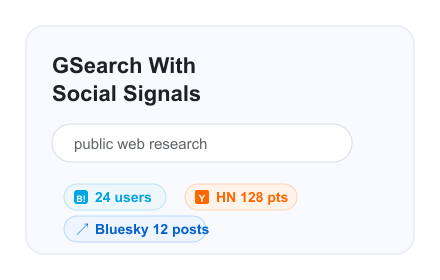
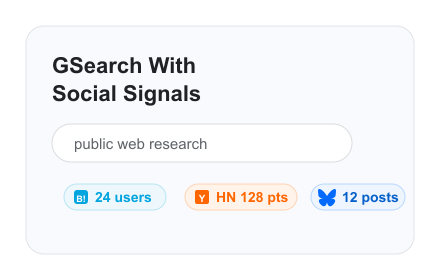
fix(content): compact the Bluesky badge
汎用リンクiconを透明背景の蝶iconへ置き換え、表示文言を件数とpostsだけに短縮する。Bluesky名はaria-labelとtooltipに維持する。

Changed region(s): [[0.1477, 0.7429, 0.4727, 0.8857], [0.7091, 0.6286, 0.9455, 0.7714]]

diff --git a/tests/manifest.test.ts b/tests/manifest.test.ts
@@ -68,4 +68,13 @@ describe("extension manifest", () => {
     expect(manifest.host_permissions).not.toContain("https://api.bsky.app/*")
     expect(manifest.web_accessible_resources?.[0]?.resources).toContain("icons/bluesky-signal.svg")
   })
+
+  it("bundles a transparent Bluesky butterfly SVG", () => {
+    const icon = readFileSync(resolve(process.cwd(), "public/icons/bluesky-signal.svg"), "utf8")
+
+    expect(icon).toContain('viewBox="0 0 24 24"')
+    expect(icon).toContain('fill="#006aff"')
+    expect(icon).not.toContain("<rect")
+    expect(icon).not.toContain("#fff")
+  })
 })

diff --git a/tests/content/badges.test.ts b/tests/content/badges.test.ts
@@ -171,7 +171,8 @@ describe("insertBlueskyBadge", () => {
       "chrome-extension://test-extension/icons/bluesky-signal.svg"
     )
     expect(badge?.querySelector("img")?.alt).toBe("")
-    expect(badge?.textContent).toContain("Bluesky 12 posts")
+    expect(badge?.textContent).toContain("12 posts")
+    expect(badge?.textContent).not.toContain("Bluesky")
     expect(badge?.getAttribute("aria-label")).toBe("Bluesky: 12 posts mentioning this URL")
     expect(badge?.rel).toBe("noopener noreferrer")
   })

diff --git a/src/content/badges.ts b/src/content/badges.ts
@@ -172,7 +172,7 @@ export function insertBlueskyBadge(target: SearchResultTarget, summary: BlueskyS
     text.className = BLUESKY_BADGE_TEXT_CLASS
     badge.appendChild(text)
   }
-  text.textContent = `Bluesky ${summary.hitsTotal} posts`
+  text.textContent = `${summary.hitsTotal} posts`
 }
 
 function attachBadgeEvents(badge: HTMLAnchorElement, url: string, hover: BadgeHoverHandlers): void {

diff --git a/tests/content/signals.test.ts b/tests/content/signals.test.ts
@@ -204,7 +204,7 @@ describe("queueTargets", () => {
     lastBlueskyCall().apply(zero.url, { hitsTotal: 0 })
 
     expect(positive.container.querySelector(".gsplus-bluesky-count")?.textContent).toContain(
-      "Bluesky 12 posts"
+      "12 posts"
     )
     expect(zero.container.querySelector(".gsplus-bluesky-count")).toBeNull()
   })

diff --git a/docs/spec.md b/docs/spec.md
@@ -2,7 +2,7 @@
 
 ## 1. 概要
 
-本ドキュメントは、「Google と DuckDuckGo のWeb検索結果ページに、各結果URLの Hatena Bookmark 件数（`X users`）、Hacker News 最大スコア（`HN X pts`）、Bluesky URL mention count（`Bluesky X posts`）を表示する」Chrome拡張の現行仕様である。
+本ドキュメントは、「Google と DuckDuckGo のWeb検索結果ページに、各結果URLの Hatena Bookmark 件数（`X users`）、Hacker News 最大スコア（`HN X pts`）、Bluesky URL mention count（蝶アイコンと `X posts`）を表示する」Chrome拡張の現行仕様である。
 公開前の source of truth として、技術スタック、アーキテクチャ、権限、データフロー、公開時の注意点を記録する。
 
 ---
@@ -14,7 +14,7 @@
 - Google と DuckDuckGo のWeb検索結果ページ上で、各検索結果に対応するURLの Hatena Bookmark 件数を表示する。
 - Hacker News Search API / Algolia から、各検索結果URLに対応するstory群の最大 positive points を表示する。
 - Bluesky public AppView API から、各検索結果URLを含む投稿の `hitsTotal` を表示する。
-- Hatena 件数は `X users`、HN は `HN X pts`、Bluesky は `Bluesky X posts` として表示する。
+- Hatena 件数は `X users`、HN は `HN X pts`、Bluesky は蝶アイコンと `X posts` として表示する。
 - 0件または positive score がないURLについては、UI上に何も追加しない（＝0は非表示）。
 - Hatena Bookmarkの**公開APIのみ**を使用し、認証（OAuth等）は不要とする。
 - Hacker News は公開 Search API のみを使用し、認証は不要とする。
@@ -37,7 +37,7 @@
 ## 3. ユースケース
 
 - ユーザーが Chrome で Google または DuckDuckGo のWeb検索を行う。
-- 検索結果一覧が表示されると、各結果のタイトル付近に `123 users`、`HN 456 pts`、`Bluesky 12 posts` のようなバッジが表示される。
+- 検索結果一覧が表示されると、各結果のタイトル付近に `123 users`、`HN 456 pts`、蝶アイコンと `12 posts` のようなバッジが表示される。
 - ユーザーは、Hatena Bookmark 件数、HN score、BlueskyでのURL mention countを補助シグナルとして参照できる。
 
 ---
@@ -70,7 +70,7 @@
    - `hitsTotal` はlikes、reposts、repliesの合計ではなく、丸め・切り捨てられる可能性のあるURL mention countとする。
 
 6. **UI表示**
-   - 各検索結果のタイトル等の近くに `X users`、`HN X pts`、`Bluesky X posts` というテキストを表示する。
+   - 各検索結果のタイトル等の近くに `X users`、`HN X pts`、蝶アイコンと `X posts` を表示する。
    - 件数またはscoreが0の場合は、UI表示を行わない。
    - UIは最小限の装飾（小さめの灰色テキスト、適度なマージン）に留める。
 
@@ -265,7 +265,7 @@ DOM抽出ロジックは `src/content/searchResults.ts` に集約し、検索サ
 
 ### 9.3 UI挿入戦略
 
-- 各結果ごとに、既存DOMに social signal container を追加し、positiveな `X users`、`HN X pts`、`Bluesky X posts` を入れる。
+- 各結果ごとに、既存DOMに social signal container を追加し、positiveな `X users`、`HN X pts`、蝶アイコンと `X posts` を入れる。
 - 挿入位置の候補:
   - タイトルリンク (`<a>`) の直後
   - タイトルを囲むコンテナの末尾

diff --git a/docs/spec_bluesky.md b/docs/spec_bluesky.md
@@ -3,7 +3,7 @@
 ## Signal Semantics
 
 - The extension calls the unauthenticated public AppView endpoint `app.bsky.feed.searchPosts` once per unique normalized URL.
-- The visible value is the optional `hitsTotal` returned by the API and is rendered as `Bluesky <hitsTotal> posts` only when it is positive.
+- The visible value is the optional `hitsTotal` returned by the API and is rendered as a Bluesky butterfly icon followed by `<hitsTotal> posts` only when it is positive. The accessible name and tooltip retain the full `Bluesky` service name.
 - `hitsTotal` is a URL mention count that the API may round or truncate. It is not a sum of likes, reposts, or replies.
 - Missing or invalid `hitsTotal` is unavailable, not zero. `posts.length` is never used as the total.
 - The badge opens `https://bsky.app/search?q=<normalized URL>` in a new tab with `noopener noreferrer`.

diff --git a/docs/chrome-web-store-assets.md b/docs/chrome-web-store-assets.md
@@ -84,7 +84,7 @@ npm run store:assets
 The script requires ImageMagick's `magick` command. Store screenshots are
 captured manually from Chrome and are not regenerated by this script.
 
-The currently committed screenshots predate Bluesky support. Before a Store release that includes this feature, recapture the combined-badge screenshot from the built extension so the listing visibly includes a real `Bluesky X posts` badge. This issue does not perform the version bump or Store rollout.
+The currently committed screenshots predate Bluesky support. Before a Store release that includes this feature, recapture the combined-badge screenshot from the built extension so the listing visibly includes the butterfly icon and a real `X posts` badge. This issue does not perform the version bump or Store rollout.
 
 ## References
 

diff --git a/docs/chrome-web-store-privacy-practices.md b/docs/chrome-web-store-privacy-practices.md
@@ -40,7 +40,7 @@ Required to send supported search result URLs to the Hacker News Search / Algoli
 
 ### `https://public.api.bsky.app/*`
 
-Required to send normalized supported search result URLs to the public Bluesky AppView API and display the returned public `hitsTotal` URL mention count as a `Bluesky 12 posts` badge. The extension does not use Bluesky login, account data, or an API token.
+Required to send normalized supported search result URLs to the public Bluesky AppView API and display the returned public `hitsTotal` URL mention count as a butterfly icon with a `12 posts` badge. The accessible name retains the full `Bluesky` service name. The extension does not use Bluesky login, account data, or an API token.
 
 ### `storage`
 
